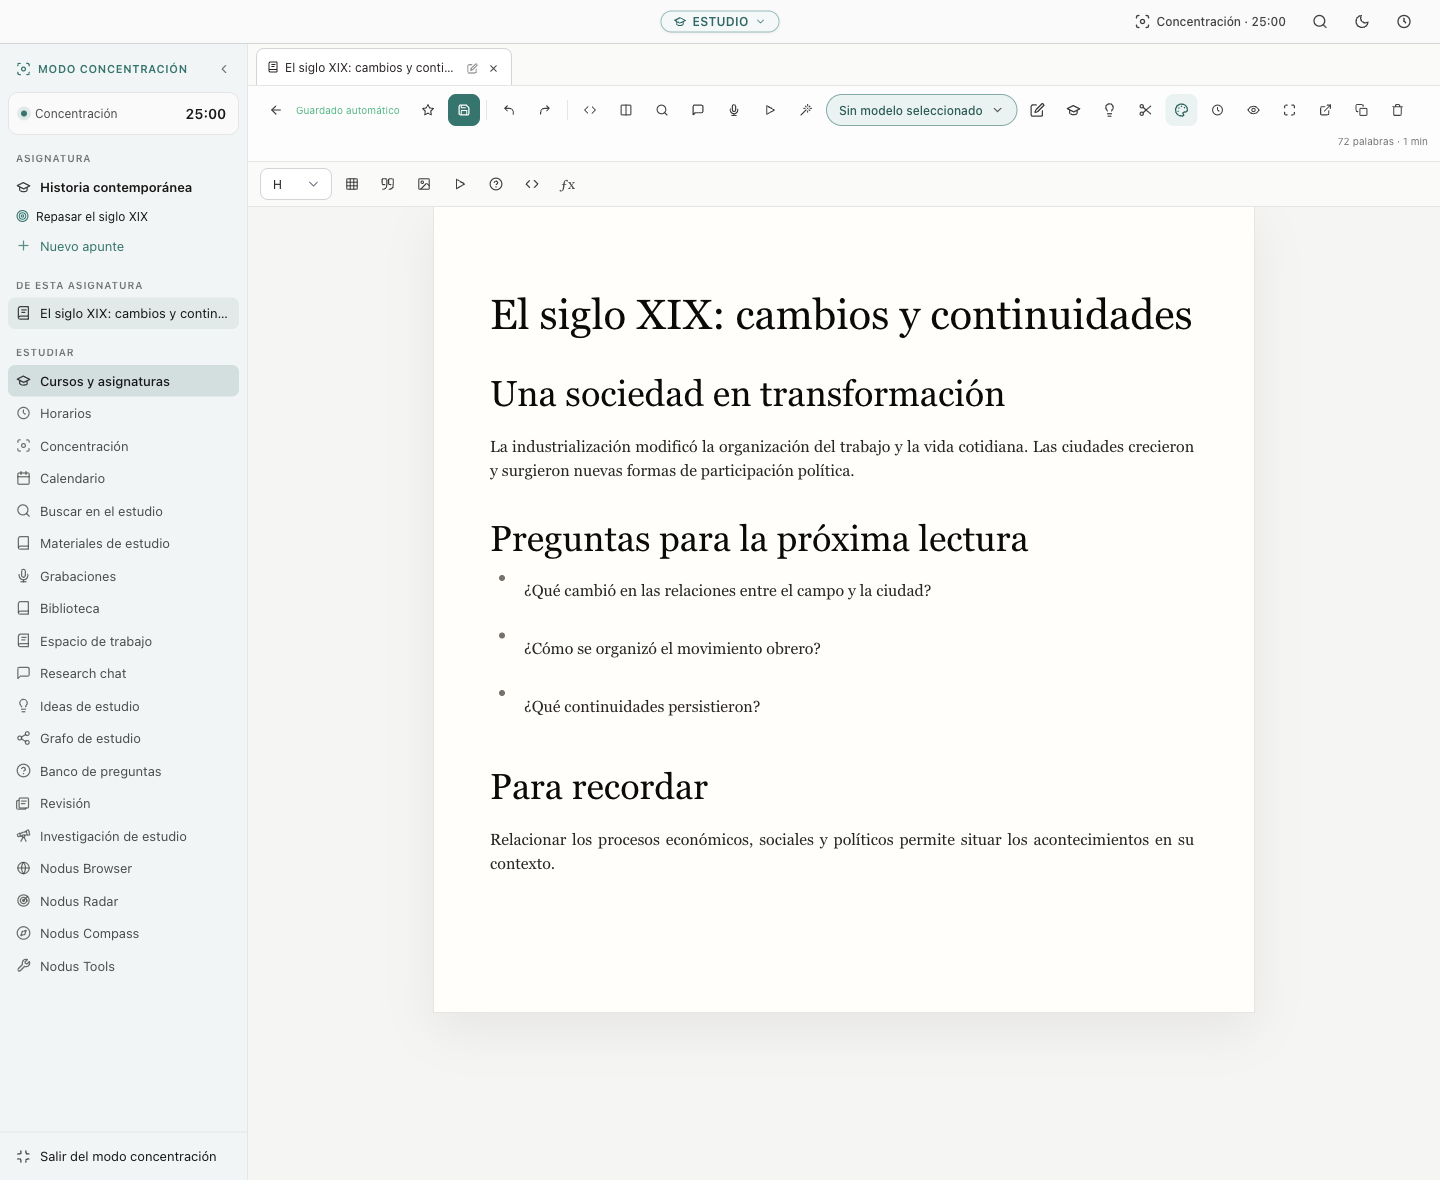
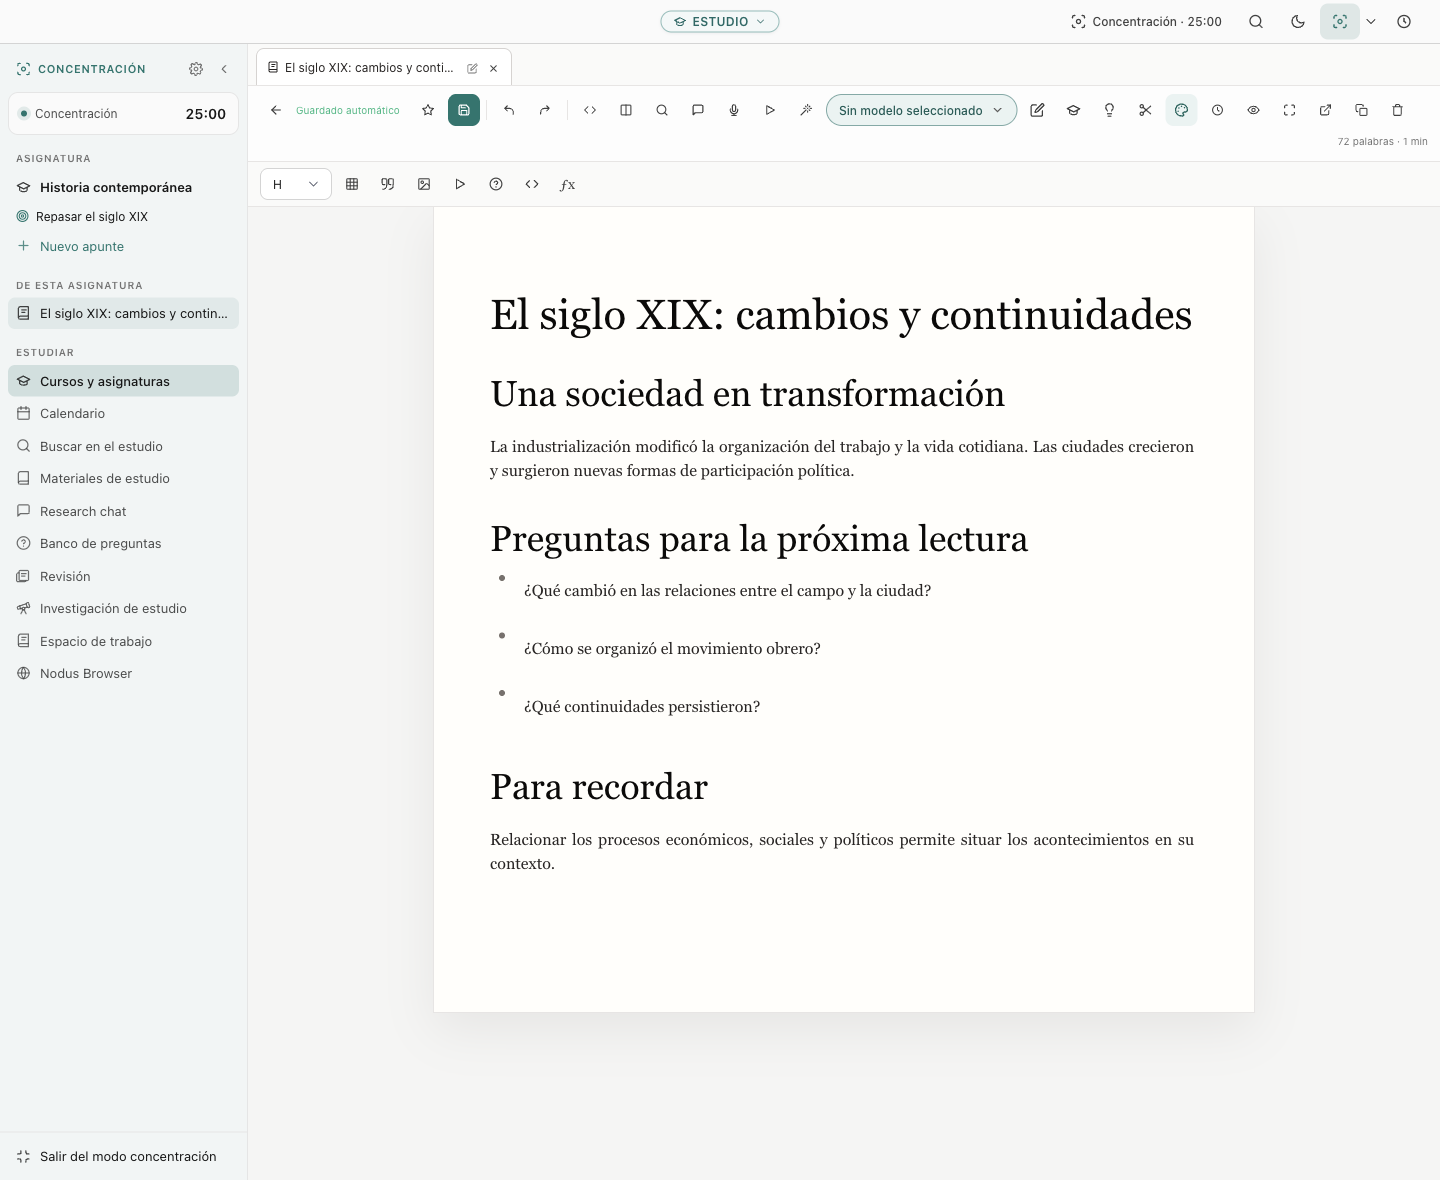
test(study): verify the configurable focus mode end to end
The desktop walkthrough checks the default-ticked mode entering on start and resume,
the opt-out being remembered, the eight default sections, the settings dialog from
the rail and from the header (sections, blocks and header items, stored as overrides),
the header quick access, and leaving the mode: back to Concentración, paused, and
the finish-or-keep question, in Spanish and English. Screenshots and notes refreshed.

diff --git a/docs/verification/study-focus/README.md b/docs/verification/study-focus/README.md
@@ -14,6 +14,8 @@ Implementación de escritorio por bóveda. Las capturas usan datos de ejemplo en
 - `08-focus-rail-notes.png`: el panel de concentración lleva a Notas (espacio de trabajo) sin salir del modo.
 - `09-focus-browser-media.png`: navegador abierto desde el panel y controles de medios en la cabecera.
 - `10-narrow-rail-dark.png`: en ventana estrecha el panel se pliega a iconos.
+- `11-focus-layout-dialog.png`: ajustes del modo concentración (qué bloques, secciones y elementos de cabecera se ven).
+- `12-focus-exit-question.png`: al salir del modo, el bloque queda en pausa y se pregunta si finalizar la sesión.
 
 ## Resultado
 
@@ -37,14 +39,15 @@ La suspensión se prueba emitiendo el evento de Electron; no se suspende física
 
 ## Modo concentración
 
-Sustituye la barra lateral por un panel propio en vez de esconder la navegación:
+La casilla «Modo concentración» está marcada por defecto: iniciar o reanudar un bloque de trabajo entra en el modo, y la elección se recuerda si se desmarca. El modo sustituye la barra lateral por un panel propio en vez de esconder la navegación:
 
-- el bloque en curso (reloj, asignatura y objetivo), que abre el temporizador;
-- los apuntes y materiales de la asignatura del bloque, o los más recientes sin asignatura, con filtro cuando son muchos y «Nuevo apunte» archivado en la asignatura;
-- todas las secciones de Estudio en el orden guardado por el usuario, además de Biblioteca y Notas (salvo que el usuario la haya ocultado expresamente);
+- arriba, el bloque en curso (reloj), la asignatura con su objetivo y «Nuevo apunte», y los apuntes y materiales de la asignatura (o los más recientes), con filtro cuando son muchos;
+- abajo, por defecto, Cursos y asignaturas, Calendario, Buscar, Materiales, Research chat, Banco de preguntas, Investigación y Browser;
 - la salida del modo. Se pliega a iconos y lo hace solo en ventanas estrechas.
 
-La cabecera conserva el temporizador, los controles de medios del navegador, la paleta de comandos, el tema, la cola de tareas y una actualización pendiente. La paleta ofrece «Entrar en modo concentración» y «Temporizador de concentración». Todo el texto pasa por `t()`/`tx()` y está traducido a los once idiomas; la prueba de escritorio recorre también la interfaz en inglés.
+Todo es configurable en «Personalizar el modo concentración» (desde el panel, desde la cabecera o desde la paleta): cada bloque superior, cualquier sección de la bóveda y los elementos que conserva la cabecera (controles de medios del navegador, paleta de comandos, tema y cola de tareas). Solo afecta al modo concentración; se guarda por bóveda con el resto de preferencias del temporizador y solo se almacenan las diferencias con los valores por defecto.
+
+En la cabecera de una bóveda de Estudio, junto al tema claro/oscuro, hay un acceso rápido para entrar o salir del modo y otro para sus ajustes. Salir del modo lleva a la página Concentración, pausa el bloque y, si hay una sesión abierta, pregunta si finalizarla o dejarla en pausa. Todo el texto pasa por `t()`/`tx()` y está traducido a los once idiomas; la prueba de escritorio recorre también la interfaz en inglés.
 
 ## Detalles de persistencia
 
